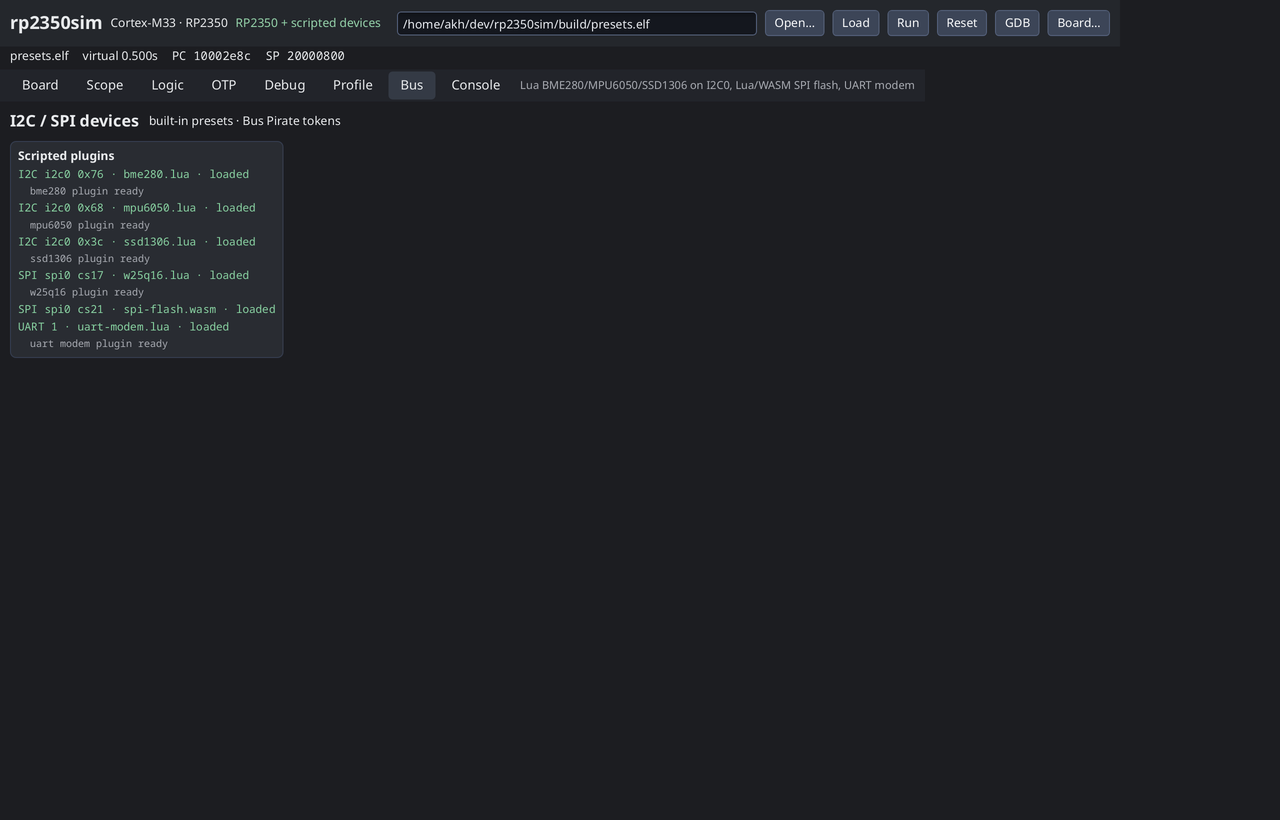
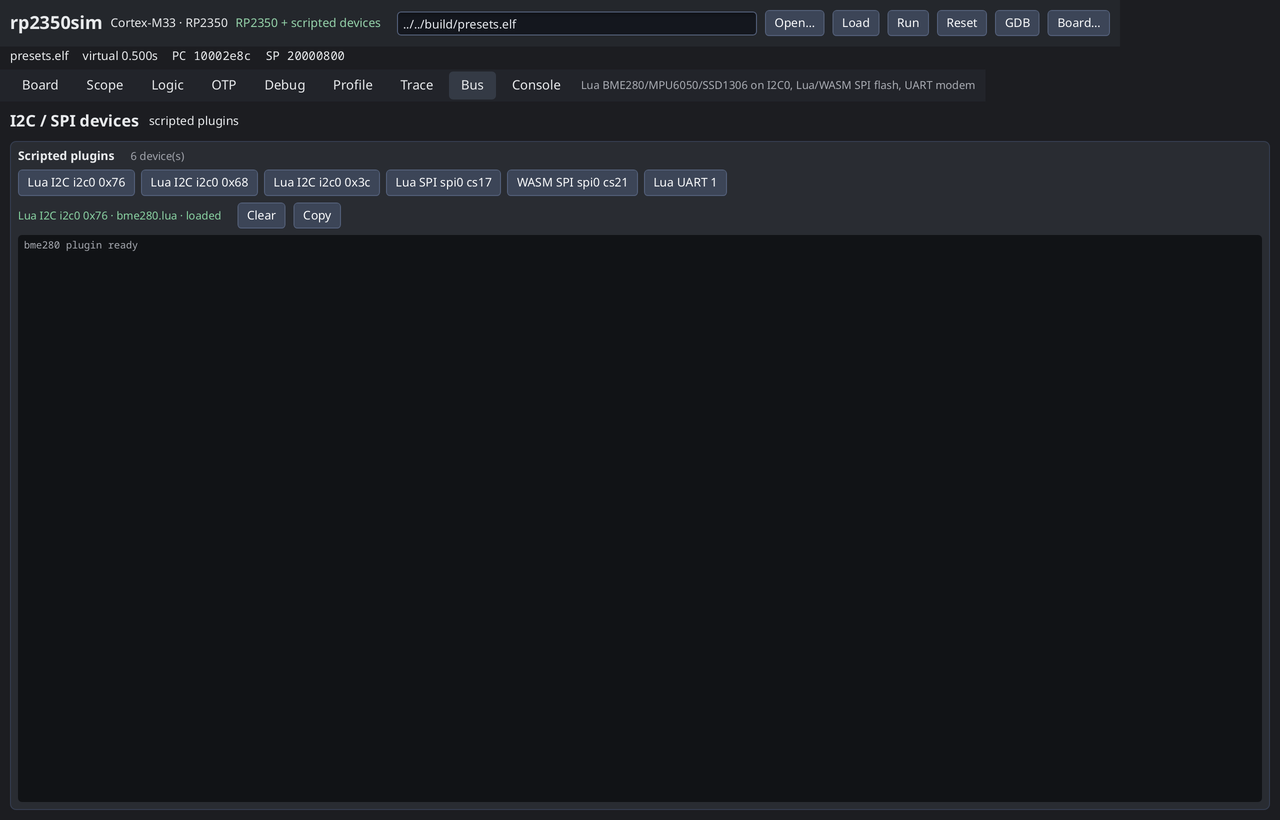
ui: give scripted plugins their own log console
The Bus tab showed every plugin's last eight log lines in one block and
labelled the page 'Bus Pirate tokens' even for directly attached Lua/WASM
models. Show a selectable console per plugin, keyed so each keeps its own
scroll position, label it with its language and slot, and add Clear and
Copy. The subtitle now lists only the device kinds the board actually has.

diff --git a/cmd/simui/main.go b/cmd/simui/main.go
@@ -51,6 +51,7 @@ var (
 	busTermErrs        = map[string]string{}
 	busInput           string
 	busSel             int
+	busPluginSel       int
 	busAutoConnect     bool
 	busAnswers         = map[string]string{}
 	touchDemo          bool
@@ -317,6 +318,7 @@ func releaseBoardResources() {
 	busTermErrs = map[string]string{}
 	busInput = ""
 	busSel = 0
+	busPluginSel = 0
 }
 
 func returnToBoardPicker() {
@@ -2988,34 +2990,79 @@ func busLabel(info BusBridgeInfo) string {
 
 func busPanel(snap MachineState) {
 	Container(Attrs(Grow(1), Expand, Gap(10)), func() {
+		plugins := emu.Plugins()
+		infos := emu.BusBridges()
+		var parts []string
+		if len(plugins) > 0 {
+			parts = append(parts, "scripted plugins")
+		}
+		if selectedBoard != nil && (len(selectedBoard.I2CPresets) > 0 || len(selectedBoard.SPIPresets) > 0) {
+			parts = append(parts, "built-in presets")
+		}
+		if len(infos) > 0 {
+			parts = append(parts, "Bus Pirate terminals")
+		}
+		subtitle := strings.Join(parts, " · ")
+		if subtitle == "" {
+			subtitle = "no devices"
+		}
 		Container(Attrs(Row, CrossMid, Gap(10)), func() {
 			Label("I2C / SPI devices", FontSize(16), FontWeight(700))
-			Label("built-in presets · Bus Pirate tokens", FontSize(12))
+			Label(subtitle, FontSize(12))
 			Filler(1)
 			if len(snap.Buses) > 0 {
 				Label(fmt.Sprintf("%d line(s)", len(snap.Buses)), FontSize(11), TextColor(140, 45, 65, 1))
 			}
 		})
-		plugins := emu.Plugins()
 		if len(plugins) > 0 {
-			Container(Attrs(Gap(4), Pad(8), Corners(6), Background(220, 10, 18, 1),
+			if busPluginSel >= len(plugins) || busPluginSel < 0 {
+				busPluginSel = 0
+			}
+			Container(Attrs(Grow(1), Expand, Gap(6), Pad(8), Corners(6), Background(220, 10, 18, 1),
 				BorderWidth(1), BorderColor(220, 20, 26, 1)), func() {
-				Label("Scripted plugins", FontSize(12), FontWeight(700))
-				for _, p := range plugins {
-					state := "loaded"
-					if p.Error != "" {
-						state = "error: " + p.Error
+				Container(Attrs(Row, CrossMid, Gap(8)), func() {
+					Label("Scripted plugins", FontSize(12), FontWeight(700))
+					Filler(1)
+					Label(fmt.Sprintf("%d device(s)", len(plugins)), FontSize(11),
+						TextColor(220, 6, 65, 1))
+				})
+				Container(Attrs(Row, Gap(6), Wrap), func() {
+					for i, p := range plugins {
+						if Button(NoIcon, pluginLabel(p, i)) {
+							busPluginSel = i
+							RequestNextFrame()
+						}
 					}
-					Label(fmt.Sprintf("%s %s · %s · %s", strings.ToUpper(p.Kind), p.Slot, p.Name, state),
-						FontSize(11), Fonts(Monospace...), TextColor(140, 45, 68, 1))
-					logs := p.Logs
-					if len(logs) > 8 {
-						logs = logs[len(logs)-8:]
+				})
+				p := plugins[busPluginSel]
+				Container(Attrs(Row, CrossMid, Gap(8)), func() {
+					Label(pluginTitle(p), FontSize(11), FontWeight(600), Fonts(Monospace...),
+						TextColor(140, 45, 68, 1))
+					Filler(1)
+					if p.Index >= 0 && Button(NoIcon, "Clear") {
+						emu.ClearPluginLogs(p.Index)
+						RequestNextFrame()
 					}
-					for _, line := range logs {
-						Label("  "+line, FontSize(10), Fonts(Monospace...), TextColor(220, 6, 68, 1))
+					if Button(NoIcon, "Copy") {
+						RequestTextCopy(pluginLogText(p))
 					}
+				})
+				if p.Error != "" {
+					Label("error: "+p.Error, FontSize(10), TextColor(0, 65, 55, 1))
 				}
+				ContainerWithKey(fmt.Sprintf("plugin-log-%d", p.Index),
+					Attrs(Grow(1), Expand, Clip, Viewport, Gap(2), Pad2(4, 6),
+						Background(220, 12, 8, 1), Corners(4)), func() {
+						ScrollOnInput()
+						ScrollBars()
+						if len(p.Logs) == 0 {
+							Label("no output yet", FontSize(11), TextColor(220, 6, 62, 1))
+							return
+						}
+						for _, line := range p.Logs {
+							Label(line, Fonts(Monospace...), FontSize(10), TextColor(220, 6, 68, 1))
+						}
+					})
 			})
 		}
 		if selectedBoard != nil && (len(selectedBoard.I2CPresets) > 0 || len(selectedBoard.SPIPresets) > 0) {
@@ -3036,7 +3083,6 @@ func busPanel(snap MachineState) {
 					FontSize(11), TextColor(220, 6, 62, 1))
 			})
 		}
-		infos := emu.BusBridges()
 		if len(infos) == 0 {
 			if selectedBoard == nil || (len(selectedBoard.I2CPresets) == 0 &&
 				len(selectedBoard.SPIPresets) == 0 && len(plugins) == 0) {
@@ -3135,6 +3181,61 @@ func busPanel(snap MachineState) {
 		Label("Type ACK, NAK or hex bytes; spaces queue one response per request (e.g. 0xEF 0x40 0x18).", FontSize(11), TextColor(140, 45, 65, 1))
 		Label("If only HELLO appears, the firmware is not asking yet: queue the answers, then press Reset in the toolbar.", FontSize(11), TextColor(140, 45, 65, 1))
 	})
+}
+
+// pluginLabel is the compact selector label for one scripted device.
+func pluginLabel(p PluginInfo, pos int) string {
+	if p.Index < 0 {
+		return fmt.Sprintf("ERROR %d", pos+1)
+	}
+	var parts []string
+	if p.Lang != "" {
+		parts = append(parts, p.Lang)
+	}
+	if p.Kind != "" {
+		parts = append(parts, strings.ToUpper(p.Kind))
+	}
+	if p.Slot != "" {
+		parts = append(parts, p.Slot)
+	}
+	if len(parts) == 0 {
+		return "plugin"
+	}
+	return strings.Join(parts, " ")
+}
+
+// pluginTitle describes the selected device in the console header.
+func pluginTitle(p PluginInfo) string {
+	if p.Index < 0 {
+		return "Plugin load error"
+	}
+	title := pluginLabel(p, 0)
+	if p.Name != "" && !strings.EqualFold(p.Name, strings.ToLower(p.Kind)+" plugin") {
+		title += " · " + p.Name
+	}
+	if p.Error != "" {
+		title += " · error"
+	} else {
+		title += " · loaded"
+	}
+	return title
+}
+
+// pluginLogText is the plain-text export for the Copy button.
+func pluginLogText(p PluginInfo) string {
+	var b strings.Builder
+	fmt.Fprintf(&b, "rp2350sim plugin %s\n", pluginTitle(p))
+	if p.Error != "" {
+		fmt.Fprintf(&b, "error: %s\n", p.Error)
+	}
+	for _, line := range p.Logs {
+		b.WriteString(line)
+		b.WriteByte('\n')
+	}
+	if len(p.Logs) == 0 {
+		b.WriteString("(no output)\n")
+	}
+	return b.String()
 }
 
 func consolePanel(snap MachineState) {

diff --git a/cmd/simui/emu.go b/cmd/simui/emu.go
@@ -243,6 +243,7 @@ type Emu struct {
 	// at most every few virtual milliseconds and frozen once stopped.
 	plugins     []*deviceplugin.Plugin
 	pluginSlots []string
+	pluginLangs []string
 	pluginErrs  []string
 
 	traceMu     sync.Mutex
@@ -1533,7 +1534,10 @@ func (e *Emu) resetChip() {
 
 // PluginInfo is the UI view of one loaded Lua/WASM device model.
 type PluginInfo struct {
+	// Index is the loaded plugin's position, or -1 for a load error.
+	Index int
 	Name  string
+	Lang  string
 	Kind  string
 	Slot  string
 	Logs  []string
@@ -1546,9 +1550,12 @@ func (e *Emu) Plugins() []PluginInfo {
 	defer e.mu.Unlock()
 	out := make([]PluginInfo, 0, len(e.plugins)+len(e.pluginErrs))
 	for i, p := range e.plugins {
-		info := PluginInfo{Name: p.Name(), Logs: p.Logs()}
+		info := PluginInfo{Index: i, Name: p.Name(), Logs: p.Logs()}
 		if i < len(e.pluginSlots) {
 			info.Kind, info.Slot = pluginKindSlot(e.pluginSlots[i])
+		}
+		if i < len(e.pluginLangs) {
+			info.Lang = e.pluginLangs[i]
 		}
 		if err := p.Err(); err != nil {
 			info.Error = err.Error()
@@ -1556,9 +1563,18 @@ func (e *Emu) Plugins() []PluginInfo {
 		out = append(out, info)
 	}
 	for _, msg := range e.pluginErrs {
-		out = append(out, PluginInfo{Name: "plugin", Error: msg})
+		out = append(out, PluginInfo{Index: -1, Name: "plugin", Error: msg})
 	}
 	return out
+}
+
+// ClearPluginLogs drops one loaded plugin's buffered output.
+func (e *Emu) ClearPluginLogs(index int) {
+	e.mu.Lock()
+	defer e.mu.Unlock()
+	if index >= 0 && index < len(e.plugins) {
+		e.plugins[index].ClearLogs()
+	}
 }
 
 func pluginKindSlot(slot string) (kind, name string) {
@@ -1572,6 +1588,7 @@ func (e *Emu) closePlugins() {
 	}
 	e.plugins = e.plugins[:0]
 	e.pluginSlots = e.pluginSlots[:0]
+	e.pluginLangs = e.pluginLangs[:0]
 	e.pluginErrs = e.pluginErrs[:0]
 }
 
@@ -1653,6 +1670,11 @@ func (e *Emu) attachPlugins(c *rp2350.Chip, b *BoardDef, attachSPI func(bus, cs 
 		}
 		e.plugins = append(e.plugins, p)
 		e.pluginSlots = append(e.pluginSlots, kind+" "+slot)
+		langName := "Lua"
+		if lang == deviceplugin.WASM {
+			langName = "WASM"
+		}
+		e.pluginLangs = append(e.pluginLangs, langName)
 		// Plugins are device models, not cycle-level hardware: a 1 ms tick is
 		// enough for serial events and keeps idle fast-forward cheap.
 		c.AddPeriodicHook(rp2350.CyclesPerMicrosecond*1000, func() {

diff --git a/cmd/simui/panels_test.go b/cmd/simui/panels_test.go
@@ -137,6 +137,40 @@ func TestDebugVariablesTextEmpty(t *testing.T) {
 	}
 }
 
+func TestPluginLogText(t *testing.T) {
+	p := PluginInfo{
+		Index: 0, Name: "nrf-sniffer", Lang: "WASM", Kind: "uart", Slot: "1",
+		Logs: []string{"ready", "frame 0xAB"},
+	}
+	if got := pluginLabel(p, 0); got != "WASM UART 1" {
+		t.Fatalf("plugin label = %q", got)
+	}
+	if got := pluginTitle(p); !strings.Contains(got, "nrf-sniffer") || !strings.Contains(got, "loaded") {
+		t.Fatalf("plugin title = %q", got)
+	}
+	got := pluginLogText(p)
+	for _, want := range []string{
+		"rp2350sim plugin", "WASM UART 1", "nrf-sniffer", "ready", "frame 0xAB",
+	} {
+		if !strings.Contains(got, want) {
+			t.Fatalf("plugin text missing %q:\n%s", want, got)
+		}
+	}
+}
+
+func TestPluginLogTextEmptyAndError(t *testing.T) {
+	empty := pluginLogText(PluginInfo{Index: 1, Lang: "Lua", Kind: "i2c", Slot: "0x76"})
+	if !strings.Contains(empty, "(no output)") {
+		t.Fatalf("empty plugin text = %q", empty)
+	}
+	failed := pluginLogText(PluginInfo{Index: -1, Name: "plugin", Error: "bad source"})
+	for _, want := range []string{"Plugin load error", "error: bad source"} {
+		if !strings.Contains(failed, want) {
+			t.Fatalf("error plugin text missing %q:\n%s", want, failed)
+		}
+	}
+}
+
 func TestCANText(t *testing.T) {
 	info := devices.MCP2515Info{CANSTAT: 0, CANCTRL: 0, CANINTF: 0x05, EFLG: 0}
 	frames := []devices.CANFrame{

diff --git a/internal/deviceplugin/plugin.go b/internal/deviceplugin/plugin.go
@@ -137,6 +137,14 @@ func (p *Plugin) Logs() []string {
 	return append([]string(nil), p.logs...)
 }
 
+// ClearLogs drops the buffered plugin output. Subsequent log lines start a
+// new buffer; the plugin itself keeps running.
+func (p *Plugin) ClearLogs() {
+	p.mu.Lock()
+	p.logs = p.logs[:0]
+	p.mu.Unlock()
+}
+
 func (p *Plugin) addLog(line string) {
 	p.mu.Lock()
 	p.logs = append(p.logs, line)

diff --git a/internal/deviceplugin/plugin_test.go b/internal/deviceplugin/plugin_test.go
@@ -70,6 +70,10 @@ return {
 	if len(p.Logs()) != 1 {
 		t.Fatalf("plugin logs = %v", p.Logs())
 	}
+	p.ClearLogs()
+	if got := p.Logs(); len(got) != 0 {
+		t.Fatalf("logs after clear = %v", got)
+	}
 }
 
 func TestWASMSpiPlugin(t *testing.T) {

diff --git a/docs/ui.md b/docs/ui.md
@@ -533,9 +533,10 @@ The I2C/SPI tab lists the board's built-in presets (`i2c_presets` /
 `spi_presets`), scripted device files (`i2c_plugins`, `spi_plugins`,
 `serial_plugins`) and TCP bridges. A preset or plugin is attached directly to
 the emulated controller, so firmware sees a real BME280, SSD1306, MPU6050 or
-W25Q16 without an external script. The Scripted plugins card names each model,
-its slot and load state, and shows the last `print`/`host_log` lines. See
-[device plugins](plugins.md).
+W25Q16 without an external script. The Scripted plugins card lists each model
+with its language (Lua or WASM), slot and load state; select one to open its
+own scrollable `print`/`host_log` console, with **Clear** and **Copy** buttons.
+See [device plugins](plugins.md).
 
 ![Scripted plugins](images/plugins.png)
 

diff --git a/docs/plugins.md b/docs/plugins.md
@@ -165,10 +165,11 @@ alongside the Lua models.
 ## Watching plugin output
 
 Plugin `print()` (and WASM `host_log`) lines appear in the **Bus** tab's
-Scripted plugins card, with the instance, slot and load state. The CLI writes
-the same lines as `plugin` `slog` records, so `-quiet` still leaves warnings
-and errors visible. This is the first place to look when a script fails to
-parse or a constructor throws.
+Scripted plugins card. Pick a device from its Lua/WASM slot buttons to open that
+device's scrollable console; **Clear** drops its buffer and **Copy** exports it.
+The CLI writes the same lines as `plugin` `slog` records, so `-quiet` still
+leaves warnings and errors visible. This is the first place to look when a
+script fails to parse or a constructor throws.
 
 ## Serial companions
 
